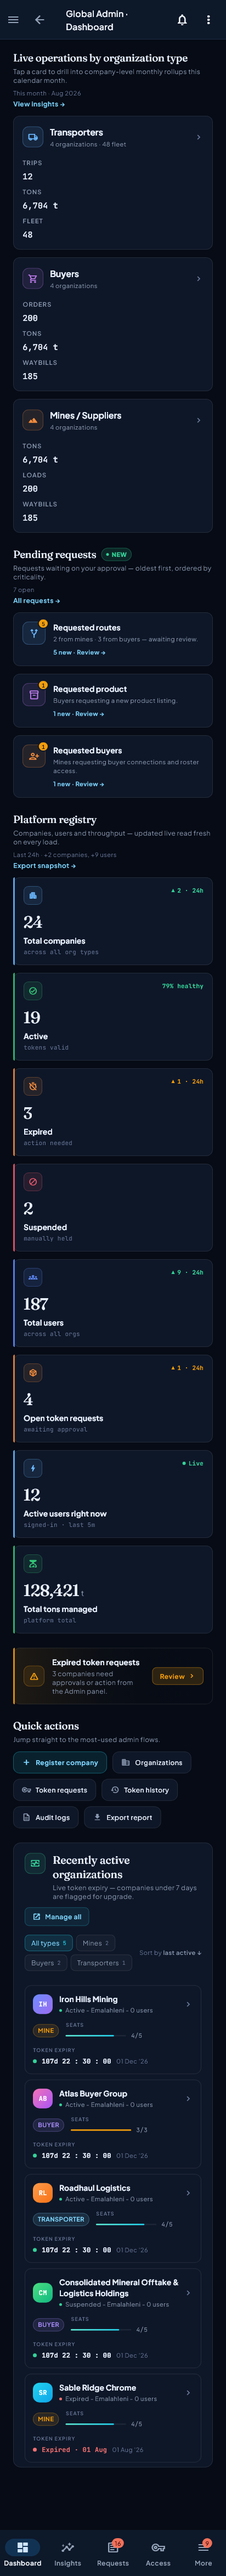
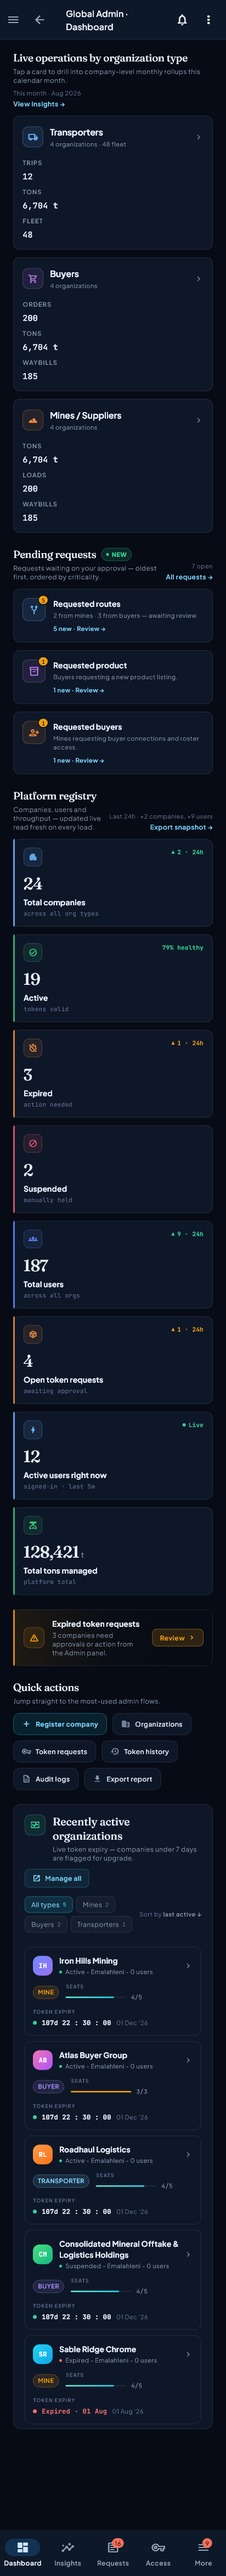
headers: a heading cut by a guessed constant, in a band no sweep reaches
The console's first band read **"Live operations by organization ty…"** at a
500px viewport in a browser. `MlSectionHead`'s trailing meta/link column is
unflexed on purpose — a short right-aligned block given `flex: 1` lands mid-row
instead of at the edge (CLAUDE.md §10.4) — so when it does not fit beside the
title, the title's `Flexible` is what gives way.

The decision to stack instead was `c.maxWidth < 420 * scale`. 420 is a number
somebody chose, and it is wrong for any title longer than the one it was chosen
for.

WHAT MAKES THIS ONE HARD TO FIND

**It lives in a band, not at the small end.** At 412 the header stacked and
read perfectly; at 500 it did not stack and cut a heading. A sweep that goes
narrower and narrower never reaches a band — which is why the new sweep here
goes UP as well as down, and why 452 is in it.

452, not 468: the width was measured off the browser screenshot rather than
assumed. At a 500px viewport the page gutters are 24 a side, so the header gets
452. The first version of this test guessed 468, which is wide enough that the
title fits — it passed, and proved nothing. The pixels that settled it: title
ink x 25..335 ending in an ellipsis, trailing block x 352..475, i.e. 124px.

TWO CHANGES, AND EACH HID THE OTHER

1. **The threshold is measured.** A `TextPainter` answers the actual question —
   does the title fit beside the trailing block? — for every title at every
[…]

diff --git a/test/widgets/section_head_stacks_when_it_must_test.dart b/test/widgets/section_head_stacks_when_it_must_test.dart
@@ -1,0 +1,172 @@
+// `MlSectionHead` must never ellipsise its own heading.
+//
+// The console's first band read **"Live operations by organization ty…"** at a
+// ~500px viewport, driven in a browser on 2026-08-21. The trailing meta/link
+// column is unflexed on purpose — a short right-aligned block given `flex: 1`
+// lands mid-row instead of at the edge (CLAUDE.md §10.4) — so when it does not
+// fit beside the title, the title's `Flexible` is what gives way.
+//
+// The decision to stack instead was `c.maxWidth < 420 * scale`, and 420 is a
+// number somebody chose. That is wrong for any title longer than the one it
+// was chosen for, and the failure lives in a BAND rather than at the small
+// end: at 412 the header stacked and read perfectly; at 500 it did not stack
+// and cut a heading. Sweeping narrower and narrower never reaches a band.
+//
+// So the sweep here goes UP as well as down, and the assertion is on the
+// heading itself rather than on the absence of an overflow — a truncation is a
+// valid layout and throws nothing.
+import 'package:flutter/material.dart';
+import 'package:flutter/rendering.dart';
+import 'package:flutter_test/flutter_test.dart';
+
+import 'package:flutter_application_1/core/design/tokens/ml_surface_tokens.dart';
+import 'package:flutter_application_1/core/theme/app_theme.dart';
+import 'package:flutter_application_1/features/super_admin/widgets/insights_v2/minelink_screens_core.dart';
+
+import '../test_helpers/real_fonts.dart';
+
+/// Every `RenderParagraph` under [of] that had to truncate.
+///
+/// `toPlainText()` returns the WHOLE string whichever part of it was drawn, so
+/// it cannot see a truncation — `didExceedMaxLines` is the only thing that can
+/// (handoff §5), and it is what the render harness's cut-off report is built
+/// on.
+List<String> _truncated(WidgetTester tester) {
+  final out = <String>[];
+  void walk(RenderObject node) {
+    if (node is RenderParagraph &&
+        node.hasSize &&
+        !node.debugNeedsLayout &&
+        node.didExceedMaxLines) {
+      out.add(node.text.toPlainText());
+    }
+    node.visitChildren(walk);
+  }
+
+  walk(tester.binding.rootElement!.renderObject!);
+  return out;
+}
+
+Future<void> _pump(
+  WidgetTester tester,
+  double width, {
+  double textScale = 1.0,
+  String? badgeless,
+}) async {
+  await tester.pumpWidget(
+    MaterialApp(
+      theme: AppTheme.build(Brightness.dark),
+      home: MediaQuery(
+        data: MediaQueryData(
+          size: Size(width, 900),
+          textScaler: TextScaler.linear(textScale),
+        ),
+        child: Scaffold(
+          body: SizedBox(
+            width: width,
+            child: MlSectionHead(
+              tokens: MlGlass.dark,
+              title: badgeless ?? 'Live operations by organization type',
+              subtitle: 'Tap a card to drill into company-level monthly '
+                  'rollups this calendar month.',
+              meta: 'This month · Aug 2026',
+              link: 'View insights',
+              onLink: () {},
+            ),
+          ),
+        ),
+      ),
+    ),
+  );
+  await tester.pumpAndSettle();
+}
+
+void main() {
+  setUpAll(loadRealFonts);
+
+  // The band the old constant sat inside, plus either side of it.
+  //
+  // **452 is the one that matters**, and it was measured off the browser
+  // screenshot rather than assumed: at a 500px viewport the page gutters are
+  // 24 a side, so the header gets 452 — not the 468 an earlier version of this
+  // file guessed, which is wide enough that the title fits and the test proved
+  // nothing. The pixels: title ink ran x 25..335 ending in an ellipsis, and
+  // the trailing block sat at x 352..475, i.e. 124px wide.
+  const widths = <double>[
+    360, 412, 440, 452, 468, 500, 560, 640, 820, 1240, 1560,
+  ];
+
+  for (final width in widths) {
+    for (final scale in <double>[1.0, 1.3, 2.0]) {
+      testWidgets('the heading is whole at ${width.toInt()}px x $scale',
+          (tester) async {
+        await _pump(tester, width, textScale: scale);
+
+        expect(
+          _truncated(tester),
+          isNot(contains('Live operations by organization type')),
+          reason: 'the section heading was ellipsised at ${width}px — the '
+              'trailing block is unflexed, so the title is what gives way, '
+              'and the header should have stacked instead',
+        );
+      });
+    }
+  }
+
+  // ── The stacking decision itself ────────────────────────────────────────
+  //
+  // The sweep above asserts the USER-VISIBLE property — the heading is never
+  // cut — and that is the right thing to assert. But it cannot see the
+  // stacking decision on its own, and finding that out is worth recording:
+  // reverting the measurement to the old `c.maxWidth < 420` left the sweep
+  // GREEN, because `maxLines: 2` lets the squeezed title wrap instead of
+  // ellipsising. Two changes went in together and each hid the other's
+  // regression from that assertion.
+  //
+  // So the decision gets its own pair, in both directions. Reverting the
+  // measurement fails the first; reverting it also un-stacks a header that
+  // has no room, which is what put four lines of heading into a column 130px
+  // wide before anyone measured it.
+  testWidgets('a LONG title moves its meta BELOW at 452px — the width a '
+      '500px viewport really leaves, and the one that was cut in the browser',
+      (t) async {
+    await _pump(t, 452);
+
+    // HORIZONTAL position, not vertical. Comparing `meta.top` to
+    // `title.bottom` looks like the obvious test and proves nothing: the
+    // title block also holds a two-line subtitle, so an un-stacked trailing
+    // column sits below the TITLE's baseline while still being beside the
+    // block. That version passed against the very constant it was written to
+    // catch.
+    //
+    // Stacked, the trailing column is `CrossAxisAlignment.start` and begins at
+    // the left edge. Beside, it is right-aligned and begins past the title.
+    final meta = t.getRect(find.text('This month · Aug 2026'));
+    expect(
+      meta.left,
+      lessThan(40),
+      reason: 'at 452 the title needs the whole row — 318 for the title, 16 '
+          'of gap and 124 for the trailing block is 458 — so the meta should '
+          'have moved underneath and started at the left edge. It is at '
+          '${meta.left.round()}px, i.e. still beside the title, which is what '
+          'squeezed the heading. 420 was a guessed constant and 452 is not '
+          'below it.',
+    );
+  });
+
+  testWidgets('a SHORT title still keeps its meta on the same row', (t) async {
+    // Stacking is a cost — it spends a line. The measurement has to buy that
+    // line only when it is needed, or every header in the console grows by one
+    // and the fix is worse than the fault.
+    await _pump(t, 640, badgeless: 'Fleet');
+
+    final title = t.getRect(find.text('Fleet'));
+    final meta = t.getRect(find.text('This month · Aug 2026'));
+    expect(
+      meta.left,
+      greaterThan(title.right),
+      reason: 'a short title leaves room beside it; stacking there would '
+          'spend a line for nothing',
+    );
+  });
+}

diff --git a/lib/features/super_admin/widgets/insights_v2/minelink_screens_core.dart b/lib/features/super_admin/widgets/insights_v2/minelink_screens_core.dart
@@ -535,10 +535,68 @@ class MlSectionHead extends StatelessWidget {
       // only honest option: it is a real sentence and a real action, so
       // neither ellipsis nor omission would do.
       //
-      // Scale-aware, because the squeeze is text as much as width -- this
-      // header is fine at 1024px and overflows at 1024px x 1.6.
-      final scale = MediaQuery.textScalerOf(context).scale(11.5) / 11.5;
-      final stacked = (meta != null || link != null) && c.maxWidth < 420 * scale;
+      // WHEN TO STACK IS MEASURED, NOT GUESSED.
+      //
+      // This was `c.maxWidth < 420 * scale`, and 420 is a number somebody
+      // chose. It is wrong for any title longer than that constant assumed:
+      // driven in a browser at a ~500px viewport on 2026-08-21, the console's
+      // first band read **"Live operations by organization ty…"**. 500 minus
+      // the page gutters is 468 of content, 468 is not below 420, so the
+      // header did not stack — and the trailing block is unflexed, so the
+      // title's `Flexible` gave way and ellipsised a heading.
+      //
+      // At 412 it was fine, which is the tell: the fault lives in a BAND
+      // (roughly 420 to 560 of content) rather than at the small end, so
+      // sweeping narrower and narrower never reaches it.
+      //
+      // A `TextPainter` answers the actual question — does the title fit
+      // beside the trailing block? — and answers it for every title, at every
+      // text scale, instead of for one imagined title at 420. The scale comes
+      // in through the painter's own `textScaler`, so the separate `scale`
+      // fudge is gone with the constant.
+      final scaler = MediaQuery.textScalerOf(context);
+      double widthOf(String s, TextStyle style) {
+        final tp = TextPainter(
+          text: TextSpan(text: s, style: style),
+          textDirection: TextDirection.ltr,
+          textScaler: scaler,
+          maxLines: 1,
+        )..layout();
+        return tp.width;
+      }
+
+      final titleStyle = TextStyle(
+        fontFamily: MlGlass.display,
+        fontFamilyFallback: MlGlass.displayFallback,
+        fontSize: size,
+        fontWeight: FontWeight.w400,
+        letterSpacing: -0.2,
+        color: t.inkHi,
+      );
+      final metaStyle = context.mlText.labelSmall.copyWith(
+        color: t.inkLo,
+        fontWeight: FontWeight.w400,
+      );
+      final linkStyle = context.mlText.labelMedium.copyWith(color: t.accent2);
+
+      // The trailing column is as wide as its widest line.
+      final trailingWidth = [
+        if (meta != null) widthOf(meta!, metaStyle),
+        if (link != null) widthOf('$link →', linkStyle),
+      ].fold<double>(0, (a, b) => a > b ? a : b);
+
+      // A badge cannot be measured — it is an arbitrary widget — so it is
+      // allowed for generously. Over-estimating stacks the header slightly
+      // early, which costs a line; under-estimating cuts a heading, which is
+      // the fault being fixed.
+      const badgeAllowance = 72.0;
+      final needed = widthOf(title, titleStyle) +
+          (badge != null ? badgeAllowance : 0) +
+          16 +
+          trailingWidth;
+
+      final stacked =
+          (meta != null || link != null) && needed > c.maxWidth;
 
       final titleBlock = Column(
             crossAxisAlignment: CrossAxisAlignment.start,
@@ -547,17 +605,22 @@ class MlSectionHead extends StatelessWidget {
               Row(
                 children: [
                   Flexible(
+                    // THE SAME style object the measurement above used. Two
+                    // copies of a TextStyle is how a measurement stops
+                    // describing the thing it measured.
                     child: Text(
                       title,
+                      // TWO lines, explicitly.
+                      //
+                      // It was inheriting a single line, so once the header
+                      // had stacked and given the title the whole row, a
+                      // title still too long for one line was ellipsised
+                      // anyway: "Live operations by organization type" on a
+                      // 412px phone at text scale 1.3. Stacking buys the
+                      // width; this is what lets the title use it.
+                      maxLines: 2,
                       overflow: TextOverflow.ellipsis,
-                      style: TextStyle(
-                        fontFamily: MlGlass.display,
-                        fontFamilyFallback: MlGlass.displayFallback,
-                        fontSize: size,
-                        fontWeight: FontWeight.w400,
-                        letterSpacing: -0.2,
-                        color: t.inkHi,
-                      ),
+                      style: titleStyle,
                     ),
                   ),
                   if (badge != null) ...[
@@ -582,21 +645,14 @@ class MlSectionHead extends StatelessWidget {
             mainAxisSize: MainAxisSize.min,
             children: [
               if (meta != null)
-                Text(meta!,
-                    style: context.mlText.labelSmall.copyWith(
-                      color: t.inkLo,
-                      fontWeight: FontWeight.w400,
-                    )),
+                Text(meta!, style: metaStyle),
               if (link != null) ...[
                 if (meta != null) const SizedBox(height: 3),
                 MouseRegion(
                   cursor: SystemMouseCursors.click,
                   child: GestureDetector(
                     onTap: onLink,
-                    child: Text('$link →',
-                        style: context.mlText.labelMedium.copyWith(
-                          color: t.accent2,
-                        )),
+                    child: Text('$link →', style: linkStyle),
                   ),
                 ),
               ],
